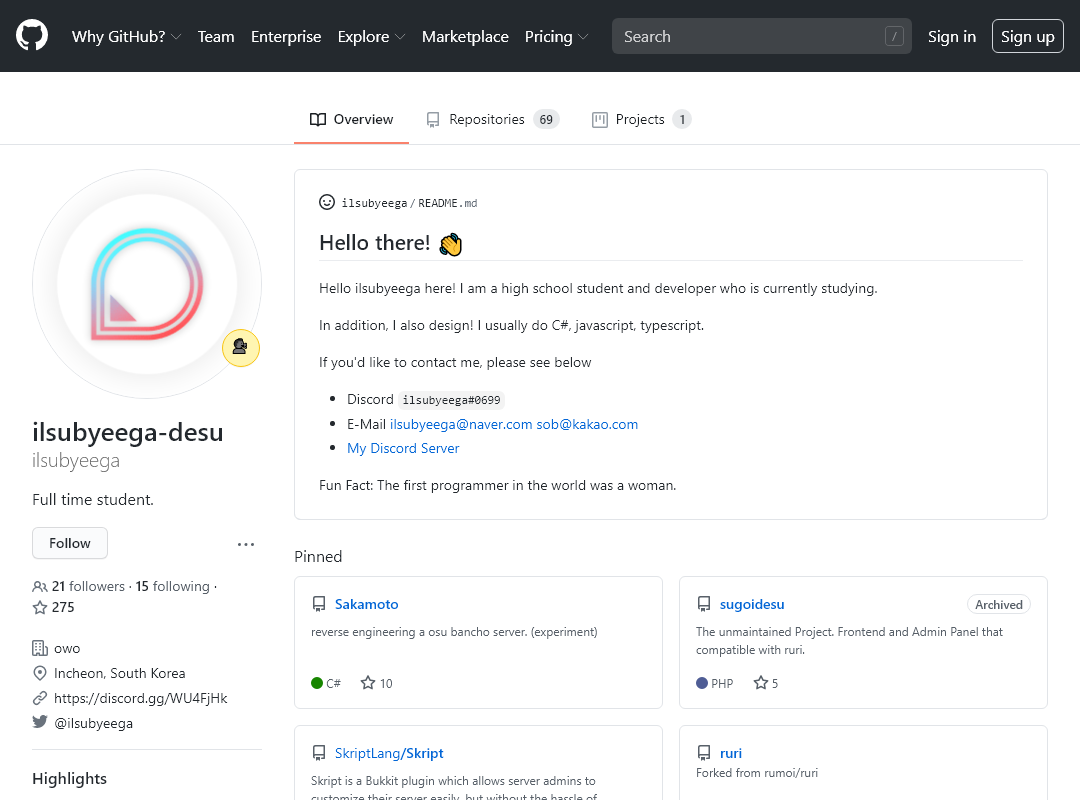
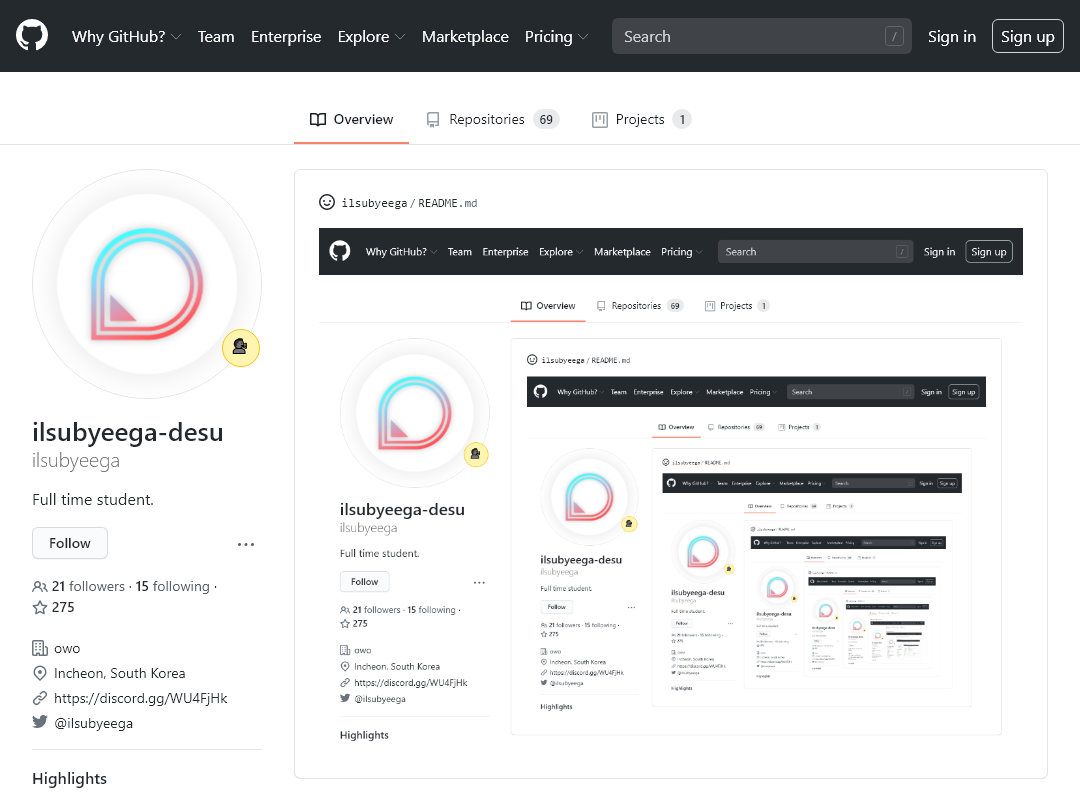
"adds new screenshot at depth 5"

diff --git a/README.md b/README.md
@@ -1,1 +1,1 @@
-![Woah!](https://github.com/ilsubyeega/ilsubyeega/blob/master/screenshot-6.png)
+![Woah!](https://github.com/ilsubyeega/ilsubyeega/blob/master/screenshot-5.png)
